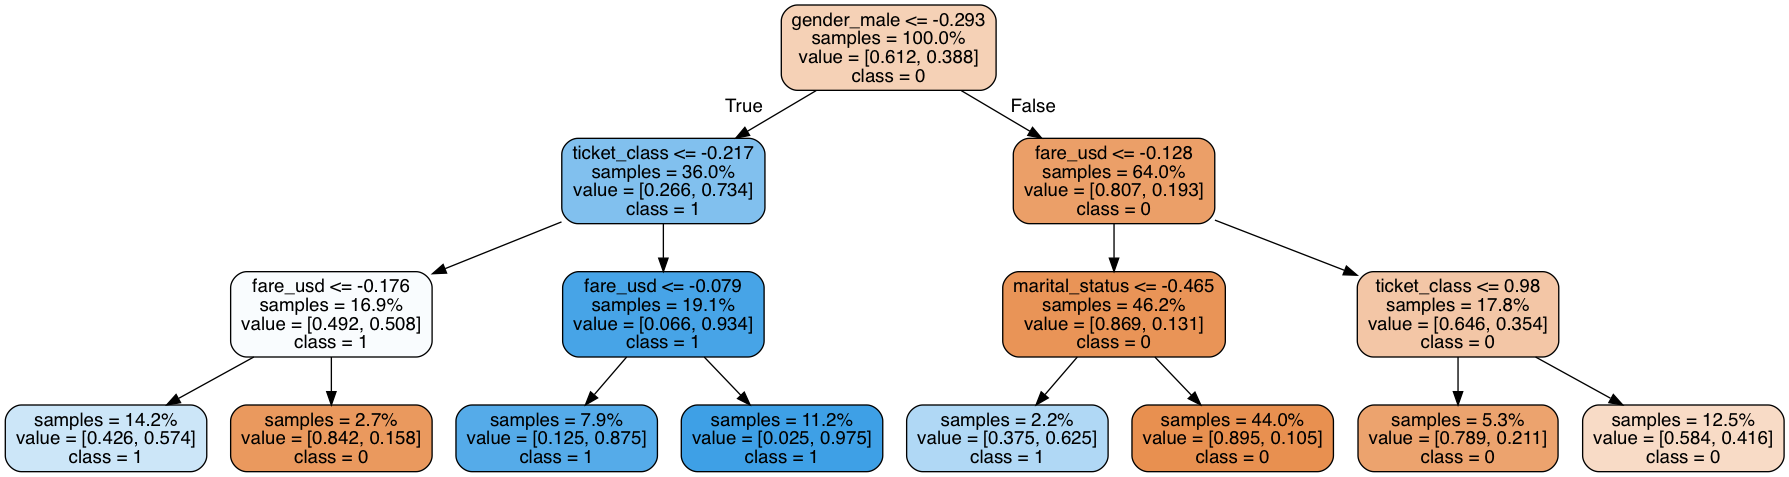
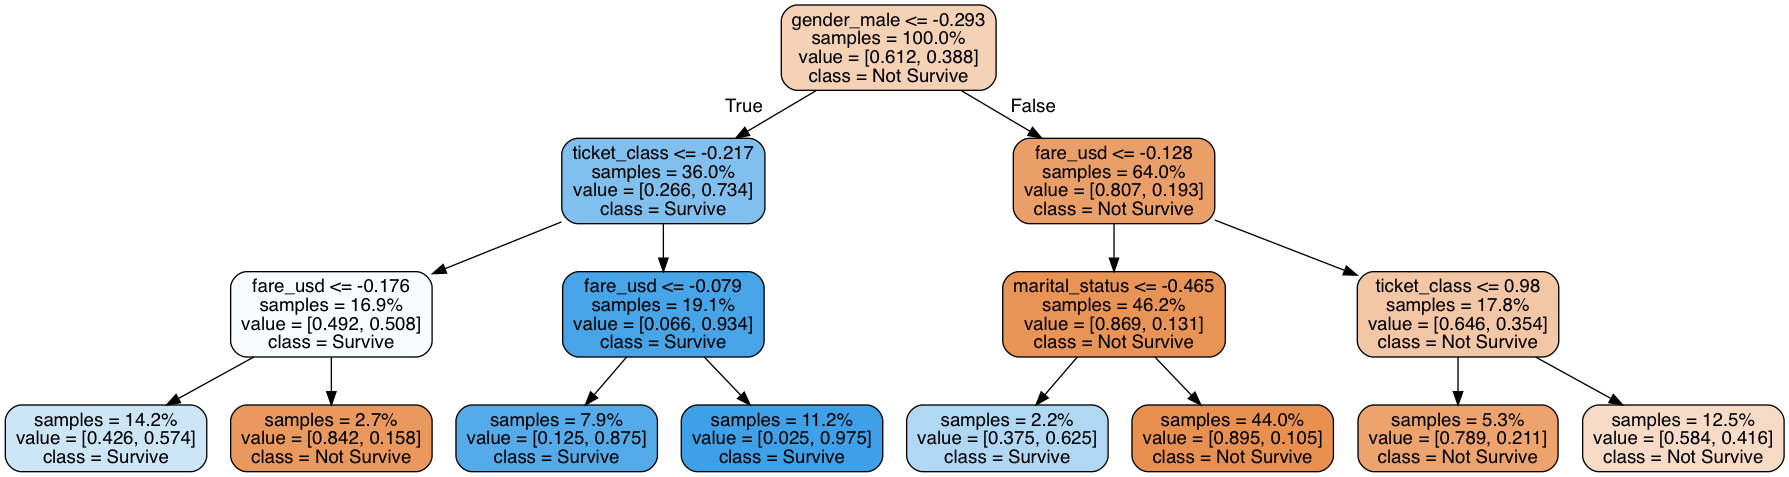
Refactor and reorganize

diff --git a/app/classifier.py b/app/classifier.py
@@ -50,19 +50,18 @@ def train_model():
 
     print("-----------------")
     print("LOADING DATA...")
-    print("-----------------")
+
     importer = Importer()
     xtrain, ytrain = filter_features(importer.xtrain), importer.ytrain
     xval, yval = filter_features(importer.xval), importer.yval
     xtest, xtest_passenger_ids = filter_features(importer.xtest), importer.xtest_passenger_ids
-    print(importer)
-    print("TRAINING SET:", xtrain.shape, ytrain.shape)
-    print("VALIDATION SET:", xval.shape, yval.shape)
-    print("TEST SET:", xtest.shape, len(xtest_passenger_ids))
+    print("TRAINING:", xtrain.shape, ytrain.shape)
+    print("VALIDATION:", xval.shape, yval.shape)
+    print("TEST:", xtest.shape, len(xtest_passenger_ids))
 
     print("-----------------")
     print("CONFIGURING SEARCH PARAMETERS...")
-    print("-----------------")
+
     pipeline = Pipeline(steps=[
         ("one_hot", OneHotEncoder(use_cat_names=True, cols=["gender"])),
         ("ordinal", OrdinalEncoder(cols=["ticket_class"], mapping=[{"col": "ticket_class", "mapping": {"UPPER":3, "MIDDLE":2, "LOWER":1}}])),
@@ -70,93 +69,74 @@ def train_model():
         ("scaler", StandardScaler()),
         ("classifier", DecisionTreeClassifier(random_state=89))
     ])
-    print(pipeline)
+    print(type(pipeline))
+
     search = GridSearchCV(estimator=pipeline, cv=5, verbose=10, return_train_score=True, n_jobs=-1, # -1 means using all processors
         scoring="accuracy", #"f1",
         param_grid={
-            #"imputer__strategy": ["mean", "median"],
+            "imputer__strategy": ["mean", "median"],
             "classifier__min_samples_leaf": (0.02, 0.03, 0.06),
             "classifier__max_depth": (1, 2, 3, 4, 5),
         }
     )
-    print(search)
+    print(type(search))
 
     print("-----------------")
     print("TRAINING...")
-    print("-----------------")
+
     search.fit(xtrain, ytrain)
-    training_score = search.score(xtrain, ytrain)
-
-    print("-----------------")
-    print("SAVING MODEL:")
-    print(os.path.abspath(LATEST_MODEL_FILEPATH))
-    with open(LATEST_MODEL_FILEPATH, "wb") as f:
-        pickle.dump(search, f)
-
-    print("-----------------")
-    print("GENERATING PREDICTIONS (VALIDATION):")
-    yval_predictions = search.predict(xval)
-    report = classification_report(yval, yval_predictions)
-    print(report)
-
-    print("-----------------")
-    print("GENERATING PREDICTIONS (TEST):")
-    print(os.path.abspath(PREDICTIONS_FILEPATH))
-    ytest_predictions = search.predict(xtest)
-    ytest_predictions_df = DataFrame({"PassengerId": xtest_passenger_ids, "Survived": ytest_predictions})
-    ytest_predictions_df.to_csv(PREDICTIONS_FILEPATH, index=False)
-
-    print("-----------------")
-    print("SCORING...")
-    print("-----------------")
 
     best_estimator = search.best_estimator_ #> Pipeline
     one_hot = best_estimator.named_steps["one_hot"]
     ordinal = best_estimator.named_steps["ordinal"]
-    #imputer = best_estimator.named_steps["imputer"]
-    #scaler = best_estimator.named_steps["scaler"]
     model = search.best_estimator_.named_steps["classifier"]
 
-    class_names = [str(class_name) for class_name in search.classes_] #> ["0", "1"]
-    feature_importances = model.feature_importances_
-    # reverse-engineer feature names, as they've been modified during encoding:
-    xval_encoded = ordinal.transform(one_hot.transform(xval)) # apply one-hot first, then ordinal
-    feature_names = xval_encoded.columns # operating on a dataframe
-    encoded_features = Series(feature_importances, feature_names).sort_values()
-    encoded_features.name = "encoded_feature"
-
-    results = {
-        "class_names": class_names,
-        "step_names": [step_name for step_name, obj in best_estimator.steps],
-        "best_score": search.best_score_,
-        "best_params": search.best_params_,
-        "training_score": training_score,
-        "validation_score": search.score(xval, yval),
-        "feature_importances": encoded_features.to_dict(),
-    }
-    pprint(results)
-    with open(SEARCH_RESULTS_FILEPATH, "w") as f:
-        f.write(json.dumps(results))
+    encoded_feature_names = ordinal.transform(one_hot.transform(xval)).columns
+    encoded_feature_importances = Series(model.feature_importances_, encoded_feature_names).sort_values(ascending=False)
+    encoded_feature_importances.name = "encoded_feature"
 
     print("-----------------")
-    print("GRAPHING FEATURE IMPORTANCES:")
+    print("BEST SEARCH PARAMS:", search.best_params_)
+    print("BEST SEARCH SCORE:", search.best_score_)
+
+    print("-----------------")
+    training_score = search.score(xtrain, ytrain)
+    print("TRAINING SCORE:", training_score)
+
+    print("-----------------")
+    validation_score = search.score(xval, yval)
+    print("VALIDATION SCORE:", validation_score)
+
+    print("-----------------")
+    print("VALIDATION REPORT:")
+    yval_predicted = search.predict(xval)
+    validation_report = classification_report(yval, yval_predicted)
+    print(validation_report)
+
+    print("-----------------")
+    print("FEATURE IMPORTANCES:")
+    print(encoded_feature_importances)
+
+    print("-----------------")
+    print("FEATURE IMPORTANCES VIZ:")
     print(os.path.abspath(FEATURES_GRAPH_FILEPATH))
     fig = px.bar(orientation="h", # horizontal flips x and y params below, but not labels
-        x=encoded_features.values,
-        y=encoded_features.keys(),
+        x=encoded_feature_importances.values,
+        y=encoded_feature_importances.keys(),
         labels={"x": "Relative Importance", "y": "Feature Name"}
     )
     #fig.show()
     fig.write_image(FEATURES_GRAPH_FILEPATH) # requires "orca" dependency. see: https://plot.ly/python/static-image-export/
 
     print("-----------------")
-    print("GRAPHING DECISION TREE:")
+    print("DECISION TREE VIZ:")
     print(os.path.abspath(TREE_GRAPH_FILEPATH))
+    class_names = [{0:"Not Survive", 1:"Survive"}[class_name] for class_name in search.classes_] # [0, 1]
     dot_data = export_graphviz(model,
         out_file=None,
         max_depth=3,
-        feature_names=feature_names,
-        class_names=class_names,
+        feature_names=encoded_feature_names,
+        class_names=class_names, # expects class names to be strings
         impurity=False,
         filled=True,
         proportion=True,
@@ -166,6 +146,34 @@ def train_model():
     png_bytes = graph.pipe(format="png")
     with open(TREE_GRAPH_FILEPATH, "wb") as f:
         f.write(png_bytes)
+
+    print("-----------------")
+    print("SAVING RESULTS:")
+    print(os.path.abspath(SEARCH_RESULTS_FILEPATH))
+    results = {
+        "pipeline_steps": [step_name for step_name, obj in best_estimator.steps],
+        "best_score": search.best_score_,
+        "best_params": search.best_params_,
+        "training_score": training_score,
+        "validation_score": validation_score,
+        "encoded_feature_importances": encoded_feature_importances.to_dict(),
+    }
+    with open(SEARCH_RESULTS_FILEPATH, "w") as f:
+        f.write(json.dumps(results))
+
+    print("-----------------")
+    print("SAVING MODEL:")
+    print(os.path.abspath(LATEST_MODEL_FILEPATH))
+    with open(LATEST_MODEL_FILEPATH, "wb") as f:
+        pickle.dump(search, f)
+
+    print("-----------------")
+    print("GENERATING SUBMISSION FILE:")
+    print(os.path.abspath(PREDICTIONS_FILEPATH))
+
+    ytest_predictions = search.predict(xtest)
+    ytest_predictions_df = DataFrame({"PassengerId": xtest_passenger_ids, "Survived": ytest_predictions})
+    ytest_predictions_df.to_csv(PREDICTIONS_FILEPATH, index=False)
 
     return search
 
